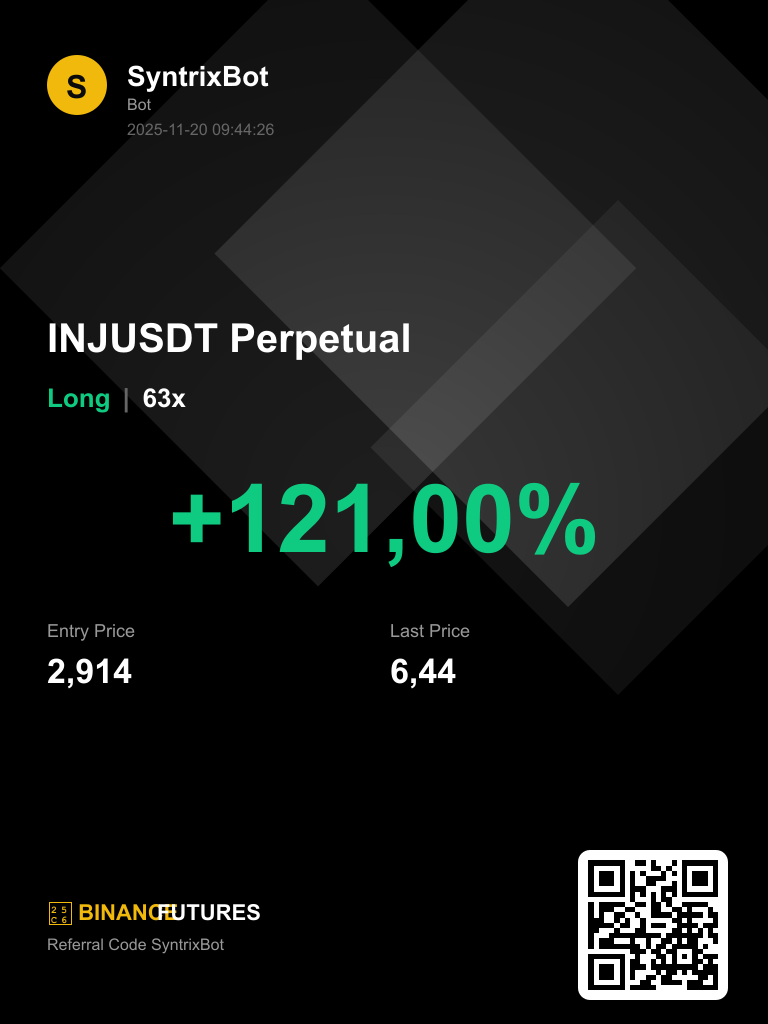
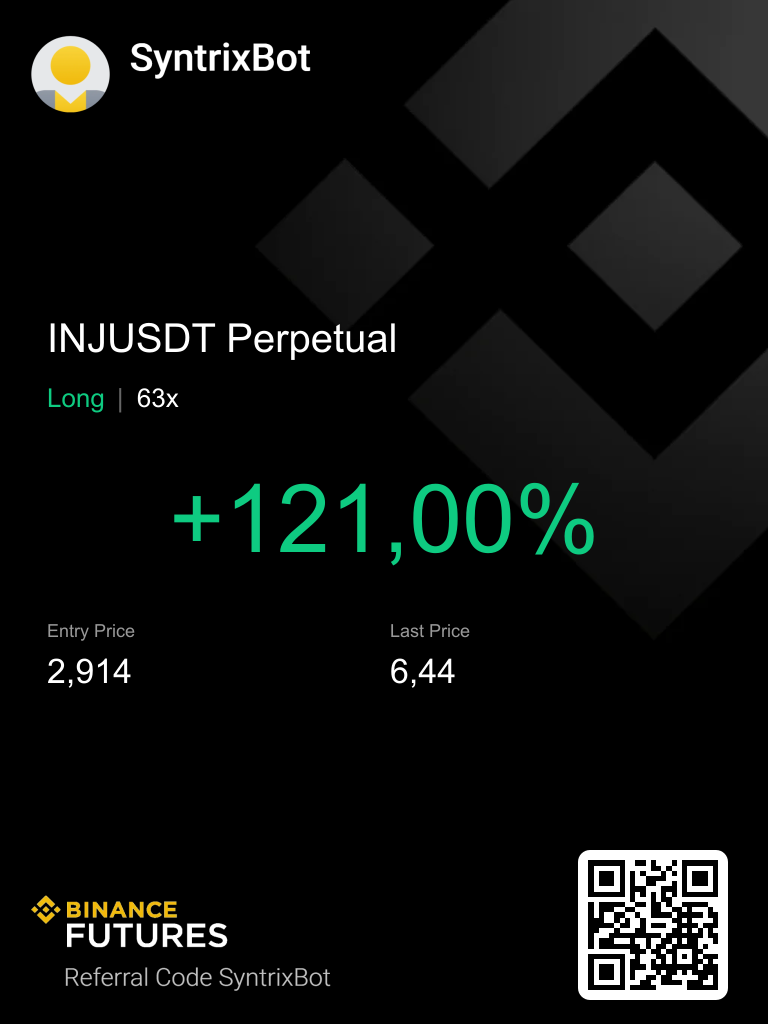
Register Arial font for Cyrillic support, use original background without redrawing static elements

diff --git a/telegram-bot/src/cardGenerator.ts b/telegram-bot/src/cardGenerator.ts
@@ -1,4 +1,4 @@
-import { createCanvas, loadImage as canvasLoadImage, CanvasRenderingContext2D, Image } from 'canvas'
+import { createCanvas, loadImage as canvasLoadImage, CanvasRenderingContext2D, Image, registerFont } from 'canvas'
 import QRCode from 'qrcode'
 import { PrismaClient } from '@prisma/client'
 import { generateTradingData } from './binanceApi.js'
@@ -9,6 +9,13 @@ const __filename = fileURLToPath(import.meta.url)
 const __dirname = path.dirname(__filename)
 
 const prisma = new PrismaClient()
+
+// Register system font with Cyrillic support
+try {
+  registerFont('C:\\Windows\\Fonts\\arial.ttf', { family: 'Arial' })
+} catch (error) {
+  console.warn('Failed to register Arial font, using default:', error)
+}
 
 interface TradingCardData {
   botName: string
@@ -177,41 +184,8 @@ async function drawBackground(ctx: CanvasRenderingContext2D, width: number, heig
  * Draw header with avatar and bot info
  */
 function drawHeader(ctx: CanvasRenderingContext2D, data: TradingCardData, layout: any) {
-  const avatarX = 47
-  const avatarY = 55
-  const avatarSize = 60
-  const avatarRadius = avatarSize / 2
-
-  // Draw circular avatar background
-  ctx.fillStyle = data.avatarBackground || '#F0B90B'
-  ctx.beginPath()
-  ctx.arc(avatarX + avatarRadius, avatarY + avatarRadius, avatarRadius, 0, Math.PI * 2)
-  ctx.fill()
-
-  // Draw avatar initial
-  ctx.fillStyle = data.avatarTextColor || '#0B0B0B'
-  ctx.font = 'bold 32px Arial'
-  ctx.textAlign = 'center'
-  ctx.textBaseline = 'middle'
-  ctx.fillText(data.botInitial, avatarX + avatarRadius, avatarY + avatarRadius + 2)
-
-  // Draw bot name
-  ctx.fillStyle = '#ffffff'
-  ctx.font = 'bold 28px Arial'
-  ctx.textAlign = 'left'
-  ctx.textBaseline = 'top'
-  ctx.fillText('SyntrixBot', avatarX + avatarSize + 20, avatarY + 5)
-
-  // Draw "Bot" label
-  ctx.fillStyle = '#999999'
-  ctx.font = '16px Arial'
-  ctx.fillText('Bot', avatarX + avatarSize + 20, avatarY + 40)
-
-  // Draw timestamp
-  ctx.fillStyle = '#666666'
-  ctx.font = '16px Arial'
-  const timestamp = data.timestamp.toISOString().replace('T', ' ').substring(0, 19)
-  ctx.fillText(timestamp, avatarX + avatarSize + 20, avatarY + 65)
+  // Background image already has avatar and SyntrixBot name
+  // No additional drawing needed
 }
 
 /**
@@ -314,21 +288,8 @@ async function drawFooter(
   const footerY = layout.footerY
   const leftMargin = layout.marginLeft
 
-  // Draw Binance Futures logo
-  ctx.fillStyle = '#F0B90B'
-  ctx.font = 'bold 22px Arial'
-  ctx.textAlign = 'left'
-  ctx.textBaseline = 'top'
-  ctx.fillText('◆ BINANCE', leftMargin, footerY)
-  
-  ctx.fillStyle = '#ffffff'
-  ctx.font = 'bold 22px Arial'
-  ctx.fillText('FUTURES', leftMargin + 110, footerY)
-
-  // Draw referral code
-  ctx.fillStyle = '#999999'
-  ctx.font = '16px Arial'
-  ctx.fillText(`Referral Code ${referralCode}`, leftMargin, footerY + 35)
+  // Background image already has Binance logo and referral code text
+  // Only draw QR code
   
   // Draw QR code (raised higher with rounded corners)
   const qrSize = 130
